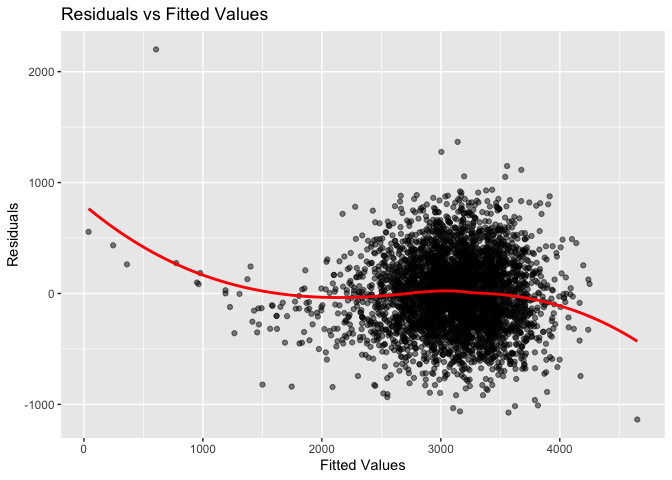
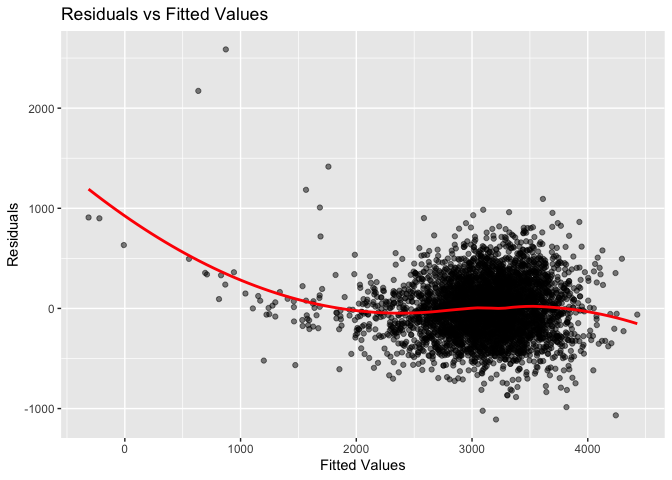
compare models through cross validations

diff --git a/20241127_HW6.md b/20241127_HW6.md
@@ -336,9 +336,15 @@ birth_missing_data
 The variables that I have selected for my regression model for
 birthweight include:
 
-- Mum’s age at delivery (momage)
+- Baby’s sex (birthweight could differ based on sex)
 
 - Gestational age (gaweeks)
+
+- Weight gain of the mother (wtgain) and whether the mother smoked
+  during pregnancy (smoken) could also heavily influence fetal
+  development.
+
+- (malform) presence of malformations that could affect weight
 
 - Two variables for previous pregnancy history (pnumlbw, pnumsga) as
   previous complications with pregnancies may influence the outcome of
@@ -352,37 +358,38 @@ Next, fit a linear regression model where bwt is the dependent variable,
 and the independent variables are the ones identified above.
 
 ``` r
-birthweight_model = lm(bwt ~ momage + ppbmi + wtgain + smoken + gaweeks + pnumlbw + pnumsga + bhead, data = birthweight_df)
+birthweight_model = lm(bwt ~ babysex + wtgain + smoken + gaweeks + pnumlbw + pnumsga + bhead + blength + malform, data = birthweight_df)
 
 summary(birthweight_model)
 ```
 
     ## 
     ## Call:
-    ## lm(formula = bwt ~ momage + ppbmi + wtgain + smoken + gaweeks + 
-    ##     pnumlbw + pnumsga + bhead, data = birthweight_df)
+    ## lm(formula = bwt ~ babysex + wtgain + smoken + gaweeks + pnumlbw + 
+    ##     pnumsga + bhead + blength + malform, data = birthweight_df)
     ## 
     ## Residuals:
-    ##      Min       1Q   Median       3Q      Max 
-    ## -1136.14  -221.09    -5.68   217.76  2200.45 
+    ##     Min      1Q  Median      3Q     Max 
+    ## -1109.2  -189.9    -9.3   173.4  2586.4 
     ## 
     ## Coefficients: (2 not defined because of singularities)
-    ##               Estimate Std. Error t value Pr(>|t|)    
-    ## (Intercept) -5205.3123   109.6443 -47.475  < 2e-16 ***
-    ## momage          7.8664     1.3032   6.036 1.71e-09 ***
-    ## ppbmi           6.6605     1.5766   4.224 2.44e-05 ***
-    ## wtgain          5.4693     0.4688  11.668  < 2e-16 ***
-    ## smoken         -3.6640     0.6728  -5.446 5.45e-08 ***
-    ## gaweeks        22.5704     1.7100  13.199  < 2e-16 ***
-    ## pnumlbw             NA         NA      NA       NA    
-    ## pnumsga             NA         NA      NA       NA    
-    ## bhead         208.6400     3.3707  61.899  < 2e-16 ***
+    ##                  Estimate Std. Error t value Pr(>|t|)    
+    ## (Intercept)    -6134.1262    98.0683 -62.550  < 2e-16 ***
+    ## babysexFemale     32.7439     8.7661   3.735 0.000190 ***
+    ## wtgain             3.5145     0.4027   8.727  < 2e-16 ***
+    ## smoken            -1.9638     0.5838  -3.364 0.000776 ***
+    ## gaweeks           13.4978     1.5064   8.960  < 2e-16 ***
+    ## pnumlbw                NA         NA      NA       NA    
+    ## pnumsga                NA         NA      NA       NA    
+    ## bhead            138.4352     3.5421  39.083  < 2e-16 ***
+    ## blength           79.8464     2.0725  38.527  < 2e-16 ***
+    ## malformPresent    30.3884    73.2929   0.415 0.678444    
     ## ---
     ## Signif. codes:  0 '***' 0.001 '**' 0.01 '*' 0.05 '.' 0.1 ' ' 1
     ## 
-    ## Residual standard error: 326 on 4335 degrees of freedom
-    ## Multiple R-squared:  0.5954, Adjusted R-squared:  0.5949 
-    ## F-statistic:  1063 on 6 and 4335 DF,  p-value: < 2.2e-16
+    ## Residual standard error: 283 on 4334 degrees of freedom
+    ## Multiple R-squared:  0.6951, Adjusted R-squared:  0.6947 
+    ## F-statistic:  1412 on 7 and 4334 DF,  p-value: < 2.2e-16
 
 ``` r
 birthweight_df = 
@@ -403,3 +410,95 @@ ggplot(birthweight_df, aes(x = pred, y = resid)) +
     ## `geom_smooth()` using formula = 'y ~ x'
 
 ![](20241127_HW6_files/figure-gfm/unnamed-chunk-13-1.png)<!-- -->
+
+It’s common for birth weight to cluster around this “average” or
+“typical” value, here it seems to be about 3000g
+
+Comparing my model to other models:
+
+1.  My model that incorporates babysex + wtgain + smoken + gaweeks +
+    pnumlbw + pnumsga + bhead + blength + malform
+
+2.  Model 2: uses length at birth (blength) and gestational age
+    (gaweeks) as predictors, considering only their main effects.
+
+3.  Model 3: includes head circumference (bhead), length at birth
+    (blength), baby’s sex (babysex), and their interaction terms,
+    including a three-way interaction between bhead, blength, and
+    babysex.
+
+Cross validation will estimate the prediction error for each of these
+models.
+
+Steps to take:
+
+1.  Create the three models
+
+2.  Set up the Monte Carlo Cross-Validation to generate training/test
+    splits
+
+3.  Train each model on the training data and predict on the test data
+
+4.  Calculate the prediction error for each model
+
+5.  Compare the models through their cross-validation results
+
+``` r
+set.seed(123)
+
+cv_folds = mc_cv(birthweight_df, times = 100, strata = "bwt")
+
+formula_model1 = bwt ~ babysex + wtgain + smoken + gaweeks + pnumlbw + pnumsga + bhead + blength + malform
+formula_model2 = bwt ~ blength + gaweeks
+formula_model3 = bwt ~ bhead * blength * babysex
+
+mse = function(formula, split) {
+  model_fit = lm(formula, data = analysis(split))
+  
+  preds = predict(model_fit, newdata = assessment(split))
+  
+  sqrt(mean((preds - assessment(split)$bwt)^2))
+}
+
+cv_results = map_dfr(list(
+    model1 = formula_model1,
+    model2 = formula_model2,
+    model3 = formula_model3
+  ), 
+  ~ map_dfr(cv_folds$splits, function(split) {
+    
+    tibble(model = deparse(substitute(.x)), mse = mse(.x, split))
+  }), 
+  .id = "model"
+)
+
+cv_results_summary = cv_results %>%
+  group_by(model) %>%
+  summarise(mean_mse = mean(mse))
+
+print(cv_results_summary)
+```
+
+    ## # A tibble: 3 × 2
+    ##   model  mean_mse
+    ##   <chr>     <dbl>
+    ## 1 model1     283.
+    ## 2 model2     333.
+    ## 3 model3     289.
+
+``` r
+ggplot(cv_results_summary, aes(x = model, y = mean_mse, fill = model)) +
+  geom_bar(stat = "identity") +
+  labs(title = "Comparison of Models Based on Cross-Validated Prediction Error",
+       x = "Model",
+       y = "Mean Squared Error (MSE)") +
+  theme_minimal()
+```
+
+![](20241127_HW6_files/figure-gfm/unnamed-chunk-15-1.png)<!-- -->
+
+The mean MSE for each model gives an estimate of how well each model
+predicts the birth weight of children across all cross-validation
+splits.
+
+Where specifically a lower MSE indicates a better predictive model.
